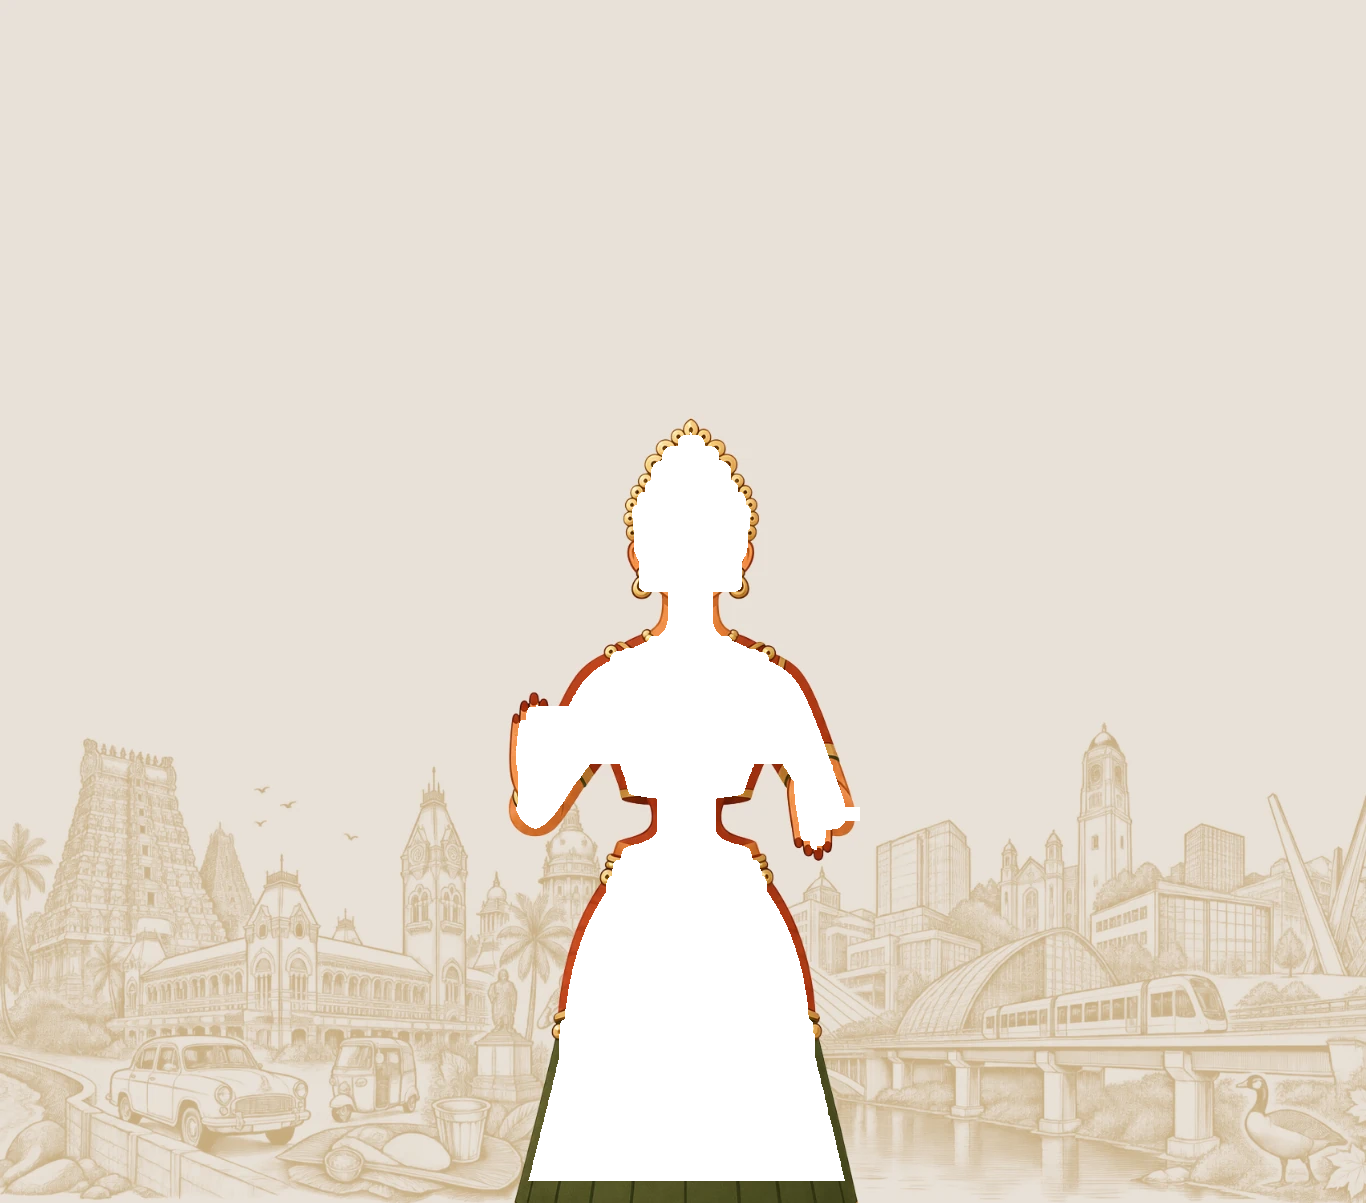
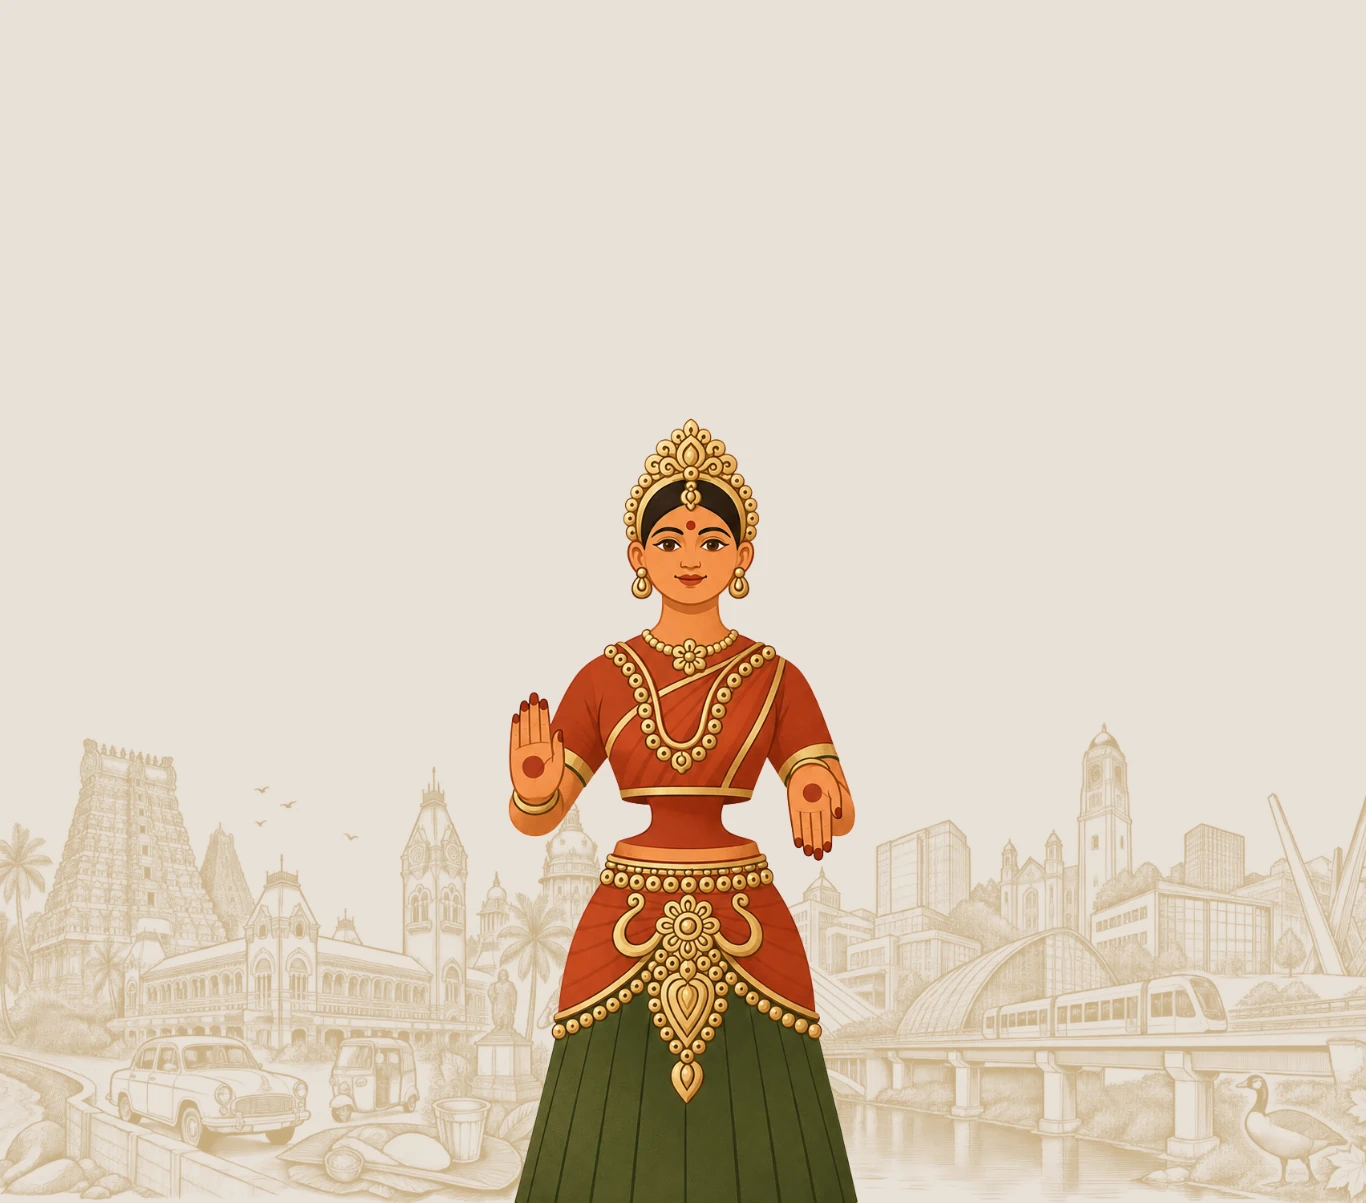
Revert doll to static, fit mobile map text in the white outline, match paragraph fonts
Client confirmed "stop it again, back to static" — reverted the left-right
translateX wobble, restoring the pristine banner (dancer baked in, no hole)
and pausing the overlay again, same as the earlier "make doll stop
wobbling for now" state. Both the rotation and translateX implementations
remain in git history if wobble is revisited.

Client: "the text is still not in the outline of the map... look at
desktop and fix it." The original mobile safe-zone measurement for the
Tamil Nadu map only checked a handful of candidate vertical bands and
found a wide-but-short one (211×51 CSS px — room for a heading, not two
paragraphs), so the paragraphs had been moved below the artwork as a
fallback. Re-scanned properly this time, checking every 10px of vertical
offset instead of a handful of guesses, and found a narrow-but-tall column
instead (≈99×~200 CSS px) running most of the silhouette's mid-height —
verified against the actual rendered image, not just the scan output.
Both the home page and About page versions of this section (same map
asset) now show their full eyebrow + heading + paragraph(s) directly on
the map's white silhouette, matching desktop, sized to fit exactly
(measured via actual box-height vs. content-scrollHeight in a real
browser, not estimated).

Client: match the font of the "lamb shank... Waterloo Region" paragraph on
the About page to the "Madras Social was not created..." paragraph earlier
[…]

Changed region(s): [[0.369, 0.3383, 0.6457, 0.9842]]

diff --git a/src/components/homepage/HomeHero.tsx b/src/components/homepage/HomeHero.tsx
@@ -1,8 +1,9 @@
 import { useEffect, useState } from "react";
 import heroBanner from "@/assets/homepage-banner-desktop.webp";
 import heroBannerMobile from "@/assets/homepage-banner-mobile.webp";
-import heroDancerDesktop from "@/assets/hero-dancer-desktop.webp";
-import heroDancerMobile from "@/assets/hero-dancer-mobile.webp";
+// Wobble paused — see note below. Re-import these when re-enabling:
+// import heroDancerDesktop from "@/assets/hero-dancer-desktop.webp";
+// import heroDancerMobile from "@/assets/hero-dancer-mobile.webp";
 import ScallopDivider from "./ScallopDivider";
 
 /**
@@ -87,25 +88,12 @@ import ScallopDivider from "./ScallopDivider";
  * Fix: `cv2.morphologyEx(..., MORPH_CLOSE)` first, filling small internal
  * gaps in the mask so erosion can't over-widen them, then erode by a larger
  * margin (60px desktop, 40px mobile) for the outer-silhouette rotation case
- * above.
- *
- * Fifth/sixth rounds, same day — kept widening the rotation-sweep margin
- * and switching to fully lossless WebP, but the client's own screenshots
- * kept showing a seam that automated testing (2 browser engines, 12
- * viewport widths, dozens of angles, pixel-diffed every time) could never
- * reproduce. Paused the wobble entirely rather than keep guessing.
- *
- * Seventh round — client: "make the doll wobble... just wobble right and
- * left." Switched from ROTATION to a plain horizontal `translateX`. This
- * is a fundamentally simpler, more robust animation for this hole/overlay
- * technique: rotation moves points by an amount PROPORTIONAL TO THEIR
- * DISTANCE from the pivot (the crown, ~1150px away, moves ~50px at 2.5° —
- * the raised hand, ~750px away and off-axis, moves ~35px — every point
- * needed its own margin, which is exactly what kept breaking one specific
- * spot after another). A horizontal slide moves EVERY point of the doll by
- * the exact same fixed distance, so a single uniform margin (`cv2.erode`
- * by translate-distance + buffer, same amount everywhere) is correct
- * everywhere at once — no per-feature special-casing possible to miss.
+ * above. A same-session attempt at fixing this by scaling the overlay up
+ * (`transform: scale(1.08)`) made things worse, not better — scaling around
+ * the bottom pivot displaces MID-BODY content (the waist, ~40px at 8% scale
+ * for a point 500px from the pivot) far more than it displaces the pivot-
+ * adjacent hem, desynchronizing the overlay's internal features from the
+ * static hole cut at the unscaled position. Pure rotation, no scale.
  */
 const HomeHero = () => {
   const [mounted, setMounted] = useState(false);
@@ -117,18 +105,35 @@ const HomeHero = () => {
 
   return (
     <section className="relative w-full md:overflow-hidden" id="home">
-      <style>{`
-        @keyframes doll-wobble {
-          0%, 100% { transform: translateX(-3%); }
-          50% { transform: translateX(3%); }
-        }
-        .doll-wobble {
-          animation: doll-wobble 2.4s ease-in-out infinite;
-        }
-        @media (prefers-reduced-motion: reduce) {
-          .doll-wobble { animation: none; }
-        }
-      `}</style>
+      {/*
+        WOBBLE PAUSED, 2026-09-23 — client: "make doll stop wobbling for
+        now." After several rounds fixing seam/outline artifacts (see the
+        long history above), the client kept seeing a gap on their own
+        device that automated testing (2 browser engines, 12 viewport
+        widths, dozens of angles, pixel-diffed) could never reproduce —
+        meaning something about their specific rendering wasn't matched by
+        any test available here. Rather than keep shipping guesses,
+        `homepage-banner-desktop.webp` / `-mobile.webp` are back to the
+        pristine full artwork (dancer baked in, no hole — restored from git
+        history prior to any hole-punching), and the animated cutout
+        overlay is not rendered at all — a single flat image has no
+        compositing seam to have a bug in.
+
+        Tried once more the same day: client asked for a left-right
+        translateX wobble instead of rotation (fundamentally more robust —
+        see commit "Doll wobbles left-right instead of rotating" for why).
+        Verified clean via pixel-diff across 6 desktop + 4 mobile viewport
+        widths. Client then asked to reverse that too, back to fully static
+        — confirmed explicitly ("stop it again, back to static") rather than
+        assumed. Both the rotation and translateX implementations are
+        preserved in git history if wobble is revisited later.
+
+        To re-enable: restore the hole-punched banner webp files (the git
+        history in this file's earlier comments has the exact erosion/
+        rotation-sweep or translateX-margin parameters used), uncomment the
+        two overlay <img> elements below, and restore the `doll-wobble`
+        keyframes/class here.
+      */}
       <h1 className="sr-only">Madras Social — A South Indian Kitchen and Bar in Waterloo</h1>
       {/* Desktop banner */}
       <img
@@ -137,14 +142,14 @@ const HomeHero = () => {
         className="hidden md:block w-full h-auto relative"
         loading="eager"
       />
-      <img
+      {/* <img
         src={heroDancerDesktop}
         alt=""
         aria-hidden="true"
         className="doll-wobble hidden md:block absolute pointer-events-none"
         style={{ left: "40.278%", top: "27.968%", width: "18.75%", height: "72.032%" }}
         loading="eager"
-      />
+      /> */}
       {/* Mobile banner — full width, no cropping */}
       <img
         src={heroBannerMobile}
@@ -152,14 +157,14 @@ const HomeHero = () => {
         className="block md:hidden w-full h-auto"
         loading="eager"
       />
-      <img
+      {/* <img
         src={heroDancerMobile}
         alt=""
         aria-hidden="true"
         className="doll-wobble block md:hidden absolute pointer-events-none"
         style={{ left: "36.237%", top: "33.666%", width: "26.72%", height: "66.334%" }}
         loading="eager"
-      />
+      /> */}
 
       {/* Desktop hero text — was vertically centred in the empty top 28% of
           the artwork, which for a short one-line headline put it right up

diff --git a/src/components/homepage/HomeOurStory.tsx b/src/components/homepage/HomeOurStory.tsx
@@ -96,42 +96,35 @@ const HomeOurStory = () => {
       </div>
 
       {/*
-        Mobile is a different problem, not just a smaller version of desktop's.
-        The artwork is 1366px wide but a phone displays it at ~390px CSS —
-        roughly 3.5x smaller — so ANY safe rectangle inside the silhouette
-        shrinks by that same factor once it is actually on a screen. The
-        widest band that still holds a couple of lines renders at only about
-        211 x 51 CSS px (measured, not eyeballed — same row-intersection
-        method as desktop, at several candidate heights). That is room for an
-        eyebrow and a two-line heading. It is not room for two paragraphs at
-        any font size a person can read; shrinking type to force the fit was
-        tried and was not legible.
-        So mobile drops the two paragraphs from the artwork overlay and keeps
-        just the eyebrow + heading there — the same simplification the
-        client already accepted once for this section (it shipped
-        heading-only for a while during earlier iteration).
-        Client, 2026-09-23: "make sure this is visible on mobile" (quoting
-        both paragraphs) — the copy itself was never optional, only its
-        placement ON TOP OF THE ARTWORK was. Both paragraphs now render
-        below the map image instead, in normal document flow with no space
-        constraint, mobile-only.
+        Mobile — client, 2026-09-23: "the text is still not in the outline
+        of the map... look at desktop and fix it." The original mobile
+        measurement only found a WIDE-but-SHORT band (211×51 CSS px, room
+        for an eyebrow + two-line heading, not two paragraphs at any legible
+        size) and the paragraphs were moved below the artwork as a fallback.
+        Re-measured properly this time — the row-intersection scan was only
+        checking a handful of candidate bands before; scanning every 10px of
+        vertical offset found a NARROW-but-TALL column instead (345×~700
+        image-px, ≈99×~200 CSS px at mobile width) running most of the
+        silhouette's mid-height, wide enough for 2–3 words per line and tall
+        enough for the full eyebrow + heading + both paragraphs stacked, at
+        a small but real font size. Same `containerType` + cqw scaling
+        technique as desktop, just tuned for a much narrower box.
       */}
       <div
-        className="flex md:hidden absolute flex-col justify-center text-center transition-all duration-700 ease-out px-1"
-        style={{ top: "35.8%", height: "13.3%", left: "22.3%", width: "54%", ...fade }}
+        className="flex md:hidden absolute flex-col justify-center text-center transition-all duration-700 ease-out overflow-hidden"
+        style={{ top: "16.3%", height: "52%", left: "40.4%", width: "25.3%", containerType: "inline-size", ...fade }}
       >
-        <p className="section-label mb-1 text-[7px] tracking-[0.22em]">MADRAS SOCIAL</p>
-        <h2 className="heading-display text-[13px] leading-[1.15]">
+        <p className="section-label mb-[5cqw]" style={{ fontSize: "6.8cqw", letterSpacing: "0.16em" }}>
+          Madras Social
+        </p>
+        <h2 className="heading-display" style={{ fontSize: "11cqw", lineHeight: 1.15 }}>
           A different kind of night out.
         </h2>
-      </div>
-
-      <div className="block md:hidden px-6 pt-6 pb-8 text-center" style={{ backgroundColor: "#F2EDE4" }}>
-        <p className="font-body text-[13px] leading-[1.55] mb-3" style={{ color: "#3B2314" }}>
+        <p className="font-body mt-[5cqw]" style={{ fontSize: "6.8cqw", lineHeight: 1.35 }}>
           Madras Social is a place to meet, settle in, and enjoy the evening
           without rushing through it.
         </p>
-        <p className="font-body text-[13px] leading-[1.55]" style={{ color: "#3B2314" }}>
+        <p className="font-body mt-[4cqw]" style={{ fontSize: "6.8cqw", lineHeight: 1.35 }}>
           Inspired by the warmth and energy of South India, we have created a
           space for good food, good drinks, and the people you came with.
           Come in for dinner, stay because the table feels right.

diff --git a/src/pages/AboutUs.tsx b/src/pages/AboutUs.tsx
@@ -208,35 +208,36 @@ const AboutUs = () => {
           </p>
         </div>
 
-        {/* Mobile — same measured band as HomeOurStory.tsx's mobile fix:
-            the silhouette renders too small here for more than a heading.
-            Client, 2026-09-23: "make sure this is visible on mobile"
-            (quoting the body paragraph) — placement on the artwork was the
-            constraint, not the copy itself, so the paragraph now renders
-            below the map image in normal flow, mobile-only, same pattern
-            as HomeOurStory.tsx. */}
+        {/* Mobile — client, 2026-09-23: "the text is still not in the
+            outline of the map... look at desktop and fix it." Same
+            re-measurement as HomeOurStory.tsx (same map asset): the
+            original scan only checked a few candidate bands and found a
+            wide-but-short one (211×51 CSS px, heading only). Scanning every
+            10px of vertical offset found a narrow-but-tall column instead
+            (≈99×~200 CSS px), same box as home, wide enough for 2–3 words
+            per line and tall enough for eyebrow + heading + this section's
+            one paragraph, sized down from home's box since the box position
+            is identical (same asset) but the fade/visibility trigger here
+            is `storyVisible`, not `fade`. */}
         <div
-          className="flex md:hidden absolute flex-col justify-center text-center px-1 transition-all duration-700 ease-out"
+          className="flex md:hidden absolute flex-col justify-center text-center transition-all duration-700 ease-out overflow-hidden"
           style={{
-            top: "35.8%", height: "13.3%", left: "22.3%", width: "54%",
+            top: "16.3%", height: "52%", left: "40.4%", width: "25.3%", containerType: "inline-size",
             color: BROWN,
             opacity: storyVisible ? 1 : 0,
             transform: storyVisible ? "translateY(0)" : "translateY(20px)",
           }}
         >
-          <p className="section-label mb-1 text-[7px] tracking-[0.22em]">How It All Began</p>
-          <h2 className="font-display italic" style={{ fontSize: "13px", lineHeight: 1.15 }}>
+          <p className="section-label mb-[5cqw]" style={{ fontSize: "6.8cqw", letterSpacing: "0.16em" }}>How It All Began</p>
+          <h2 className="font-display italic" style={{ fontSize: "11cqw", lineHeight: 1.15 }}>
             A room for it
           </h2>
+          <p className="font-body mt-[6cqw]" style={{ fontSize: "6.8cqw", lineHeight: 1.4 }}>
+            Waterloo Region had the appetite for South Indian food. What it did
+            not have was the room — a real bar, an evening you do not rush, a
+            table that is yours for as long as you want it.
+          </p>
         </div>
-      </div>
-
-      <div className="block md:hidden px-6 pt-6 pb-8 text-center" style={{ backgroundColor: CREAM }}>
-        <p className="font-body text-[13px] leading-[1.55]" style={{ color: BROWN }}>
-          Waterloo Region had the appetite for South Indian food. What it did
-          not have was the room — a real bar, an evening you do not rush, a
-          table that is yours for as long as you want it.
-        </p>
       </div>
       </section>
 
@@ -295,7 +296,7 @@ const AboutUs = () => {
           </h2>
           <p
             className="font-body mt-6 mx-auto"
-            style={{ fontSize: "19px", lineHeight: 1.6, color: BROWN, maxWidth: "36ch" }}
+            style={{ fontSize: "17px", lineHeight: 1.7, color: BROWN, maxWidth: "46ch", opacity: 0.9 }}
           >
             The lamb shank still gets its pepper crust. The rasam still
             turns up in a cocktail before it turns up in a bowl. Madras
